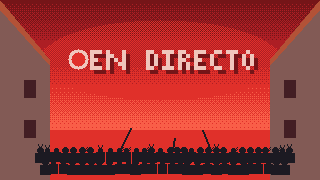
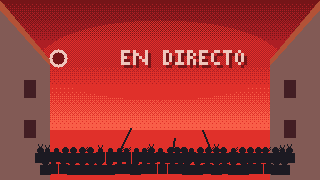
fix(client): phone-width HUD and other playtest cosmetics
Top bar: title hidden at <=560 px so Guardar/Cargar are on screen. Combat: the clock drops below
the initiative strip. Casting: stat rows read "10 (base 8 + 2)" via an optional points-step
format (Intereses unchanged). Box cards grow with their text. Long floating texts shrink. The
achievement toast no longer covers the defeat/season summary. Intro slide 6: the REC dot no longer
overlaps EN DIRECTO. PLAYTEST.md updated.

Changed region(s): [[0.1562, 0.2778, 0.8125, 0.4167]]

diff --git a/src/ui/meta.css b/src/ui/meta.css
@@ -3,7 +3,7 @@
 /* --- Achievement banner (top, like the narrator box, in gold) --- */
 .achievement-toast[hidden] { display: none; }
 .achievement-toast {
-  position: fixed; left: 50%; transform: translateX(-50%); top: calc(var(--top-h, 48px) + var(--safe-top, 0px) + 8px); z-index: 7;
+  position: fixed; left: 50%; transform: translateX(-50%); top: calc(var(--top-h, 48px) + var(--safe-top, 0px) + 8px); z-index: 5; /* under #dialogue (6): a defeat/season summary is a modal and must not be covered by a toast */
   display: flex; align-items: center; gap: 10px; width: min(480px, calc(100vw - 16px)); padding: 8px 12px;
   background: rgba(20, 12, 30, 0.96); border: 3px solid var(--gold); box-shadow: 4px 4px 0 #000; cursor: pointer; color: #f3e6c8;
 }
@@ -71,18 +71,18 @@ body.has-achievement #narrator { top: calc(var(--top-h, 48px) + var(--safe-top, 
   background: radial-gradient(ellipse at 50% 70%, var(--beam) 0%, transparent 70%); opacity: 0.75; animation: beam 1.4s ease-in-out infinite alternate;
 }
 @keyframes beam { from { opacity: 0.45; } to { opacity: 0.9; } }
-.box-stage .cards { position: relative; z-index: 1; display: flex; flex-wrap: wrap; gap: 8px; justify-content: center; }
-.box-stage .card { position: relative; width: 104px; height: 156px; padding: 0; border: 3px solid var(--rar); background: #120c1c; animation: card-in 0.4s ease-out backwards; animation-delay: calc(var(--i) * 0.12s); }
+.box-stage .cards { position: relative; z-index: 1; display: flex; flex-wrap: wrap; gap: 8px; justify-content: center; align-items: flex-start; }
+.box-stage .card { position: relative; width: 104px; min-height: 156px; padding: 0; border: 3px solid var(--rar); background: #120c1c; animation: card-in 0.4s ease-out backwards; animation-delay: calc(var(--i) * 0.12s); }
 @keyframes card-in { from { transform: translateY(-40px) scale(0.6); opacity: 0; } }
 .box-stage .card .back { position: absolute; inset: 0; display: flex; align-items: center; justify-content: center; font-size: 48px; color: var(--rar); background: repeating-linear-gradient(45deg, #1d1430 0 8px, #241a3a 8px 16px); }
-.box-stage .card .face { position: absolute; inset: 0; display: none; flex-direction: column; align-items: center; gap: 2px; padding: 6px 4px; }
+.box-stage .card .face { position: relative; min-height: 156px; box-sizing: border-box; display: none; flex-direction: column; align-items: center; gap: 2px; padding: 6px 4px; }
 .box-stage .card.flipped .back { display: none; }
 .box-stage .card.flipped .face { display: flex; }
 .box-stage .card.flipped { animation: card-flip 0.3s ease-out; box-shadow: 0 0 14px var(--rar); }
 @keyframes card-flip { 0% { transform: rotateY(90deg); } 100% { transform: rotateY(0); } }
 .box-stage .card strong { font-weight: normal; font-size: var(--fs-s); line-height: 1; color: #fff; }
 .box-stage .card em { font-style: normal; font-size: var(--fs-xs); color: var(--rar); }
-.box-stage .card small { font-size: 13px; line-height: 1.05; color: #d8cdb8; overflow: hidden; }
+.box-stage .card small { font-size: 13px; line-height: 1.05; color: #d8cdb8; }
 .box-stage .coins { margin: 0; color: var(--gold); font-size: var(--fs-l); min-height: 1em; }
 canvas.ui-icon { image-rendering: pixelated; }
 @media (prefers-reduced-motion: reduce) {

diff --git a/src/style.css b/src/style.css
@@ -354,6 +354,10 @@ canvas.portrait { image-rendering: pixelated; display: block; }
   :root { --top-h: 44px; --strip-h: 48px; }
   html, body { font-size: 18px; }
   .title { font-size: var(--fs-m); letter-spacing: 1px; }
+  /* The game's name is on the title screen: on a phone the room is worth more to the menu, so that
+     Guardar and Cargar are on screen and the next button peeks out to say "swipe for more". */
+  .hud-top .title { display: none; }
+  .hud-top { justify-content: flex-start; }
   nav button { padding: 2px 6px; min-height: 40px; }
   button { padding: 2px 7px; }
   #tile-info { display: none; }
@@ -557,6 +561,12 @@ body:has(#combat:not([hidden])) #narrator { top: calc(var(--top-h) + var(--safe-
 #clock-hud.critical { border-color: #ff5577; color: #ff8899; }
 #clock-hud.expired { border-color: #ff5577; color: #ff5577; animation: clock-flash 0.8s steps(2) infinite; }
 @keyframes clock-flash { 50% { opacity: 0.35; } }
+
+/* In combat the initiative strip runs the full width at the clock's height: on a phone the clock
+   would sit on top of its last chips, so it drops below the strip like #meters does. */
+@media (max-width: 560px) {
+  body:has(#combat:not([hidden])) #clock-hud { top: calc(var(--top-h) + var(--safe-top) + var(--strip-h) + 2 * var(--gap)); }
+}
 
 /* --- Game HUD extension: counters (top right), bubbles, panel (src/ui/showHud.ts) --- */
 #meters {

diff --git a/src/scenes/MapScene.ts b/src/scenes/MapScene.ts
@@ -502,7 +502,10 @@ export class MapScene extends Phaser.Scene {
     const extra = this.hooks.floatFor?.(event, state);
     if (extra) {
       const s = sprite(extra.entityId) ?? sprite(this.hooks.controlledEntityId());
-      if (s) void this.juice.floatText(s.x, s.y - T * 0.9, extra.text, extra.color ?? '#ffd24a', 0.5);
+      // The text is world-sized (tile x size) and the camera zooms in: a long line ("+248 espectadores")
+      // at the 0.5 of a damage number is wider than a phone screen, so it shrinks with its length.
+      const size = Math.max(0.26, Math.min(0.5, 3.2 / Math.max(1, extra.text.length)));
+      if (s) void this.juice.floatText(s.x, s.y - T * 0.9, extra.text, extra.color ?? '#ffd24a', size);
     }
     if (event.type === castEvent.type) return this.playCastEvent(e, castEvent, state, T);
     switch (event.type) {

diff --git a/rulesets/willy/creation.ts b/rulesets/willy/creation.ts
@@ -7,7 +7,8 @@ const POINTS: Extract<CreationStep, { kind: 'points' }> = {
   id: 'puntos',
   kind: 'points',
   label: 'Puntos libres',
-  help: `Willy empieza con 5 en todo, +1 por ser de Castro y lo que dé su clase. Reparte ${WILLY.puntosLibres} puntos más donde quieras.`,
+  help: `Willy empieza con 5 en todo, +1 por ser de Castro y lo que dé su clase. Tienes ${WILLY.puntosLibres} puntos más: ya van repartidos como los repartiría el Narrador; cámbialos a tu gusto.`,
+  format: (total, bonus, points) => `${total} (base ${bonus} + ${points})`,
   stats: ATTRS.map((a) => ({ id: a, label: ATTR_LABELS[a] })),
   min: 0,
   max: 3,

diff --git a/src/ui/creationScreen.ts b/src/ui/creationScreen.ts
@@ -150,7 +150,7 @@ export class CreationScreen {
       final.className = 'final';
       const total = v + (bonuses[s.id] ?? 0);
       const mod = Math.floor((total - 10) / 2);
-      final.textContent = `${bonuses[s.id] ? `+${bonuses[s.id]} → ` : ''}${total} (${mod >= 0 ? '+' : ''}${mod})`;
+      final.textContent = step.format ? step.format(total, bonuses[s.id] ?? 0, v) : `${bonuses[s.id] ? `+${bonuses[s.id]} → ` : ''}${total} (${mod >= 0 ? '+' : ''}${mod})`;
       row.append(label, minus, value, plus, final);
       wrap.append(row);
     }

diff --git a/engine/creation.ts b/engine/creation.ts
@@ -30,6 +30,8 @@ export type CreationStep =
       recommended(choices: CreationChoices): Record<string, number>;
       /** What the final value will be after bonuses (e.g. racial), shown next to each stat. */
       bonuses?(choices: CreationChoices): Record<string, number>;
+      /** How the final value reads next to each stat; default is the 5e style "+2 → 14 (+2)". */
+      format?(total: number, bonus: number, points: number): string;
     };
 
 export interface CreationSpec {

diff --git a/docs/willy/PLAYTEST.md b/docs/willy/PLAYTEST.md
@@ -52,9 +52,9 @@ deleted, season summary).
 10. **[M/W] Narrator line names a different achievement than the banner.** Banner "Planta limpia" + narrator "Logro
     desbloqueado, y encima de los raros: «Barbacoa de uno»" (two unlocked in the same command, {logro} resolves to the
     wrong one). Also «Primer figurante». "el Gaviota de lonja ha caído." (see 17).
-11. **[C] Top bar at phone width:** only 174 px of the nav is visible (Guardar clipped, Cargar/Exportar/Importar/
+11. **[C] Top bar at phone width:** only 174 px of the nav is visible (Guardar clipped, Cargar/Exportar/Importar/ **FIXED on qa**: at <=560 px the title is hidden so Guardar/Cargar are on screen and Exportar peeks out as a swipe cue.
     Nueva/sound reachable only by swiping, no hint). Save is hard to find on a phone.
-12. **[C] Initiative strip overlapped by the clock/audience widgets** at 375 px once there are 5+ combatants.
+12. **[C] Initiative strip overlapped by the clock/audience widgets** at 375 px once there are 5+ combatants. **FIXED on qa**: in combat at <=560 px the clock drops below the strip (verified: no overlap with 5 combatants).
 13. **[W] Rival dialogue says "CD 15", the roll log says "DIF 15"** (and the attack preview says "Defensa"). Pick one.
 14. **[W] When Willy goes down mid-fight nothing happens** for 10+ rounds: the fight continues with the companion
     only, the player gets no message, and the defeat prompt only appears after Jonatan falls too (or wins). A one-line
@@ -68,12 +68,12 @@ deleted, season summary).
 
 17. **[M] Narrator grammar:** "«Primer figurante». el Gaviota de lonja ha caído." (lowercase "el" after a full stop,
     wrong gender: `{enemigo:el}` in achievements.json ignores the enemy's gender; the rest of the narrator handles it).
-18. **[C] Casting stat line "+8 -> 10 (+0)" has no label; "Puntos libres: 0" with 3 points already spent.**
-19. **[C] Item card description clipped in the box reveal** ("Inmune a Envenenado por superficies." cut at 375 px).
-20. **[C] Floating "+248 au..." text is huge, overlaps Willy and is clipped at 375 px.**
-21. **[C] HUD (bag, boxes, achievements, save) is clickable over the title/difficulty/mode/casting screens.**
-22. **[C] Achievement toasts and narrator bubbles repeat the same text, and toasts draw over the defeat/season summary.**
-23. **[C] Intro slide 6 banner reads "OEN DIRECTO"** (the REC dot is drawn as an "O" glued to "EN DIRECTO").
+18. **[C] Casting stat line "+8 -> 10 (+0)" has no label; "Puntos libres: 0" with 3 points already spent.** **FIXED on qa**: stat rows read "10 (base 8 + 2)" (new optional `format` on the points step; Intereses keeps its 5e style), help text says the points are already spread like the Narrator would.
+19. **[C] Item card description clipped in the box reveal** ("Inmune a Envenenado por superficies." cut at 375 px). **FIXED on qa**: cards grow with their text.
+20. **[C] Floating "+248 au..." text is huge, overlaps Willy and is clipped at 375 px.** **FIXED on qa**: long floats shrink with their length (min 0.26 of a tile) - visual re-check pending.
+21. **[C] HUD (bag, boxes, achievements, save) is clickable over the title/difficulty/mode/casting screens.** **Not a bug**: the setup/title overlays cover the bar for real taps; it was reachable only through scripted DOM clicks.
+22. **[C] Achievement toasts and narrator bubbles repeat the same text, and toasts draw over the defeat/season summary.** **FIXED on qa** for the z-order (toast now under the dialogue layer); the toast and the narrator line are different texts, left as is.
+23. **[C] Intro slide 6 banner reads "OEN DIRECTO"** (the REC dot is drawn as an "O" glued to "EN DIRECTO"). **FIXED on qa**: the REC dot sits left of "EN DIRECTO" (spec edited, panel PNG rebuilt).
 24. **[S] Sponsor affinity bars are partly filled at "Afinidad 0".**
 
 ## Verified OK
